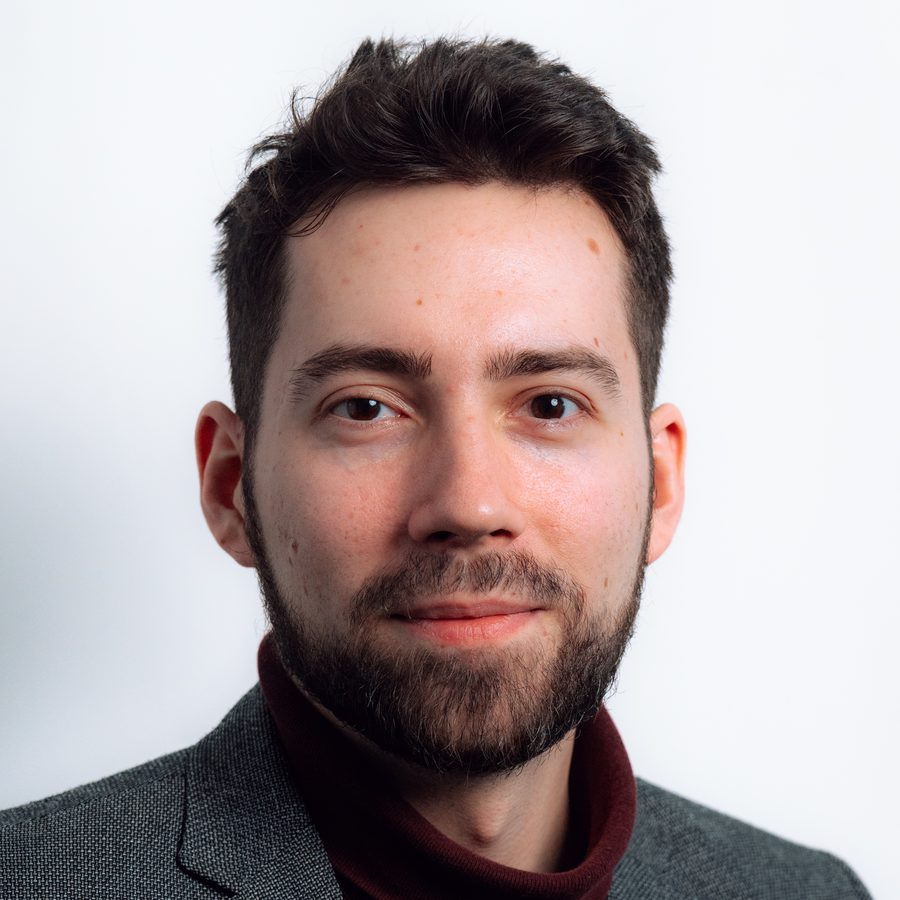
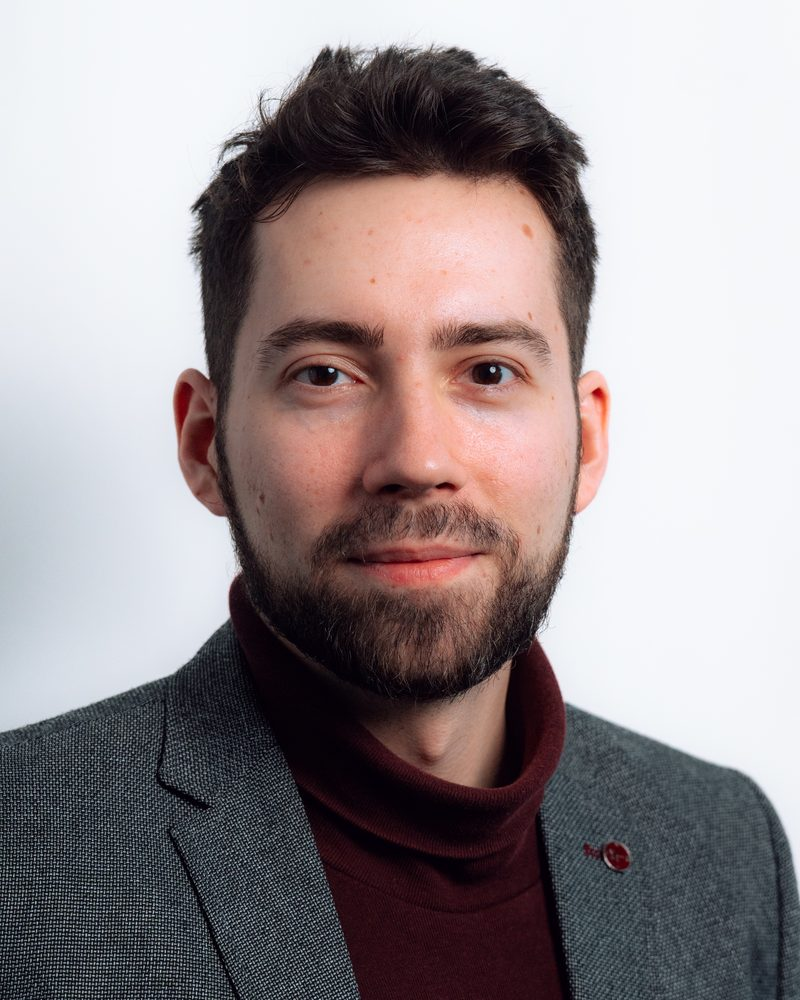
About: taller 4:5 team portraits showing head and shoulders

diff --git a/src/app/[locale]/about/page.tsx b/src/app/[locale]/about/page.tsx
@@ -206,7 +206,7 @@ export default async function AboutPage({ params }: { params: Promise<{ locale: 
               >
                 <span className="team-card__portrait" aria-hidden="true">
                   {"image" in member && member.image ? (
-                    <Image src={withBasePath(member.image)} alt="" width={900} height={900} sizes="(max-width: 768px) 46vw, 22vw" />
+                    <Image src={withBasePath(member.image)} alt="" width={800} height={1000} sizes="(max-width: 768px) 46vw, 22vw" />
                   ) : (
                     <span>{member.initials ?? member.name.split(" ").map((part) => part[0]).slice(0, 2).join("")}</span>
                   )}

diff --git a/src/styles/refinements.scss b/src/styles/refinements.scss
@@ -2707,3 +2707,11 @@
   .insights-explorer__card > div:first-child p { min-height: calc(4 * 1.7em); }
   .insights-explorer__caption { min-height: calc(5 * 1.7em); }
 }
+
+/* Team portraits: a taller 4:5 frame shows head and shoulders, not just the face. */
+.team-card__portrait {
+  aspect-ratio: 4 / 5;
+}
+.team-card__portrait img {
+  object-position: 50% 20%;
+}
